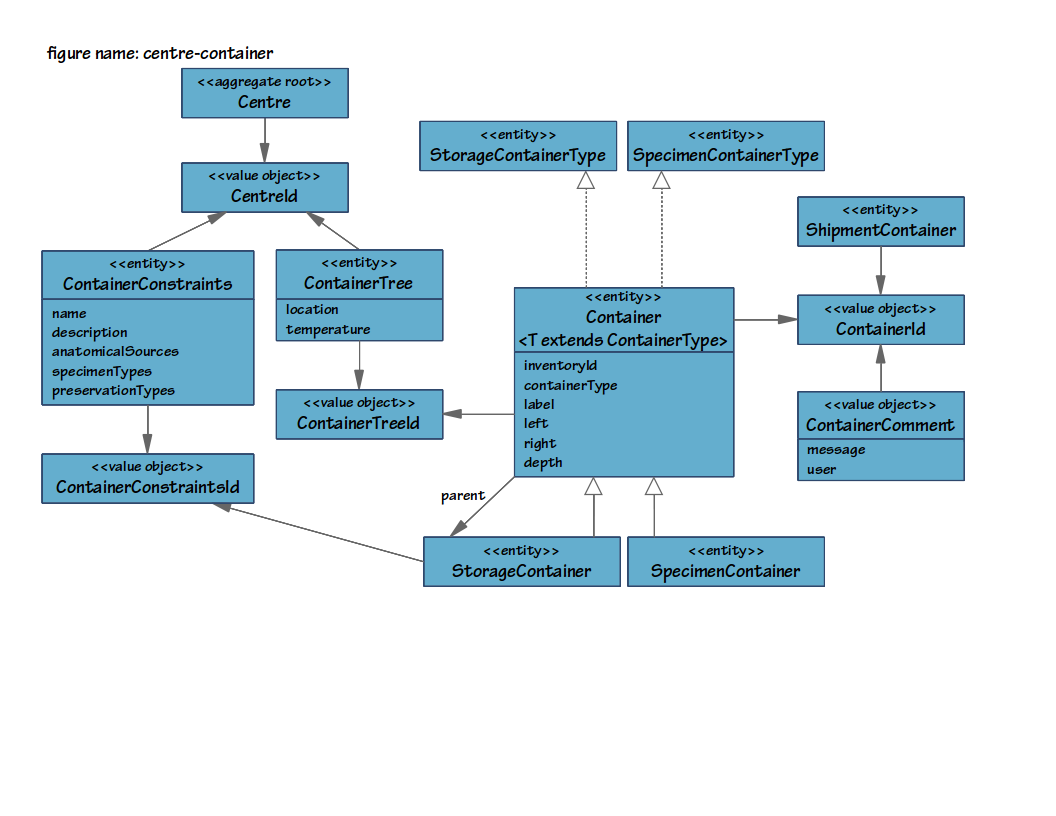
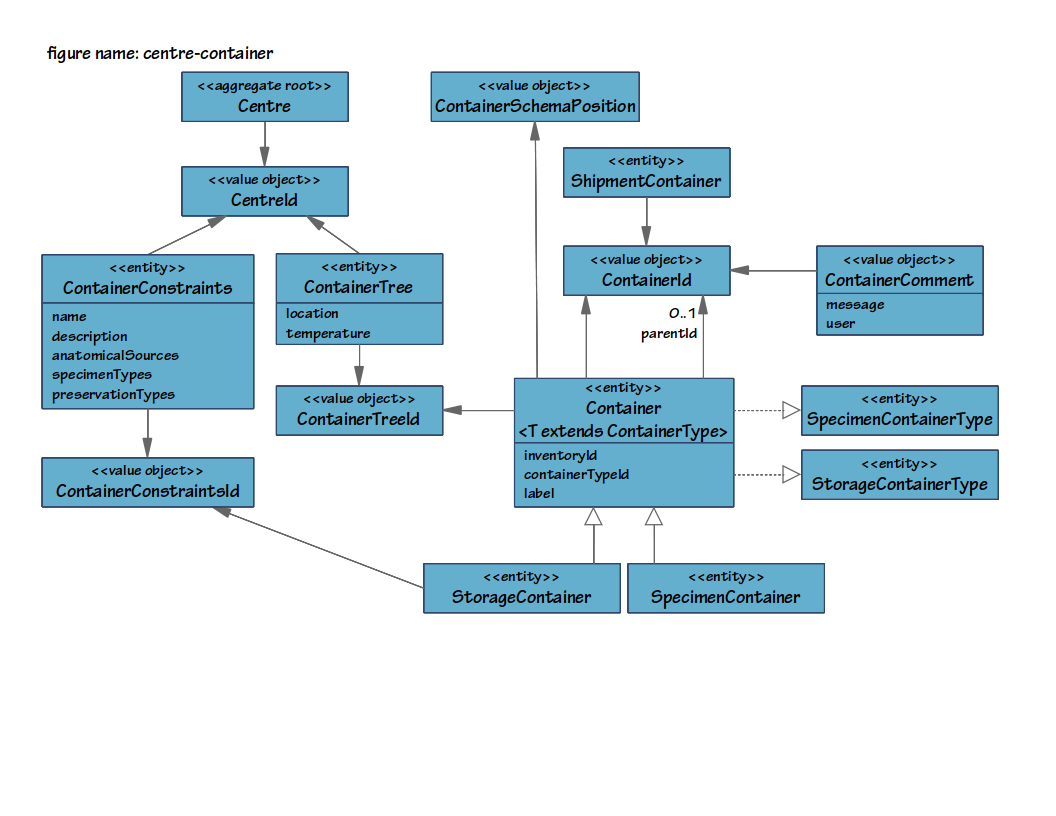
working on centre-storage-management chapter

diff --git a/centre-storage-management.tex b/centre-storage-management.tex
@@ -1,21 +1,81 @@
 \chapter{Centre Storage Management}
 \label{chap:centre-storage-management}
+Storage containers share common attributes, these attributes are grouped into
+and defined in a \entitytarget{ContainerType}. Some storage containers hold
+sub-containers, while others hold specimens.
+
+A \entitylink{ContainerType} has the following attributes: a short name used
+for quick identification; an optional drescription that gives more details for
+the name; the \compfont{shared} flag used to share this container type with
+other centres when assigned a \compfont{true} value; the \compfont{enabled}
+flag used to allow containers of this type to be created when assigned a
+\compfont{true} value.
+
+A \entitytarget{StorageContainerType} is used to define the attributes for
+containers that hold sub-containers. E.g. a freezer of certain dimensions holds
+a number of racks, where each rack may hold many microwell plates. Figure
+\ref{fig:centre-container-type} shows that a \entitylink{StorageContainerType}
+is derived from \entitylink{ContainerType} and points to one or more child
+container types. A storage container also has the attribute named
+\compfont{topLevel} which is used to identify containers types that represent
+the top of the hierarchy (e.g. a freezer).
+
+A \entitytarget{SpecimenContainerType} is used to define the attribues for
+containers that only hold specimens. E.g. a 96 well microwell plate is a type
+of specimen container that holds 96 tubes where each tube contains a specimen.
+\entitylink{StorageContainerType} is also a subclass of
+\entitylink{ContainerType}.
 
 \begin{figure}[H]
   \centering
-  \includegraphics[trim={10mm 75mm 92mm 18mm}, clip,
-    width=0.7\textwidth]{images/centre-container-type}
+  \includegraphics[trim={10mm 73mm 92mm 18mm}, clip,
+    width=0.75\textwidth]{images/centre-container-type}
   \caption{Container Type model}
   \label{fig:centre-container-type}
 \end{figure}
 
+Each container type has a \entitytarget{ContainerSchema} that defines how the
+sub-containers are \emph{labeled}. A label is a physical label that is stuck
+onto a sub-container and is used to quickly identify it\footnote{This label
+  identifies the position within the parent and does not include the parent's
+  label. It is different than the label used by a container which includes the
+  parent's label as a prefix.}. A container schema has multiple
+\entitytarget{ContainerSchemaPosition}s which define the valid labels for the
+container type (see Appendix \ref{appx:container-labeling} for more information
+on how containers can be labelled). A single container schema may be used by
+one more container types. Each container schema has a name for quick
+identification and a description. The \compfont{shared} flag is used to share
+the schema across different centres.
+
+Figure \ref{fig:centre-container} shows the model used for containers. It is
+described below.
+
 \begin{figure}[H]
   \centering
-  \includegraphics[trim={10mm 60mm 22mm 18mm}, clip,
+  \includegraphics[trim={10mm 52mm 14mm 18mm}, clip,
     width=1\textwidth]{images/centre-container}
   \caption{Container model}
   \label{fig:centre-container}
 \end{figure}
+
+\subsection*{Container}
+A \entitytarget{Container} is used to model physical containers used for
+storage. The \entitylink{Container} class is a generic class with a type that
+is either a \entitylink{StorageContainerType} or
+\entitylink{SpecimenContainerType}. Two derived classes are available: either
+\entitytarget{StorageContainer} or \entitytarget{SpecimenContainer}.
+
+A \entitylink{Container} has the following attributes: an
+\compfont{inventoryId} that is a unique identifier; the ID of it's container
+type; the ID of it's parent container; the label which has the parent's label
+as a prefix; the label within it's \entitylink{ContainerSchemaPosition}; and
+the ID of the \entitylink{ContainerTree} it belongs to.
+
+\subsection*{StorageContainer}
+A \entitylink{StorageContainer} is a subclass of \entitylink{Container} and is
+used to represent a physical container. A storage container may have an
+optional \entitylink{ContainerConstraints}.
+
 
 % Local Variables:
 % compile-command: "/usr/bin/rubber --pdf main"

diff --git a/centre-shipment.tex b/centre-shipment.tex
@@ -87,6 +87,17 @@ Contain a textual message and the user that added the comment. The date and
 time the comment is made is recorded as meta data. A shipment can have one or
 more comments.
 
+\section{Shipment Invariants}
+The following must hold for a shipment:
+\begin{itemize}
+\item If a container has a \entitylink{ShipmentContainer} that is already part
+  of a shipment and it is not in \compfont{RECEIVED} state, then it cannot be
+  added to a shipment.
+\item If a specimen has a \entitylink{ShipmentSpecimen} that is already part of
+  a a shipment and it is not in \compfont{RECEIVED} state then it cannot be
+  added to a shipment.
+\end{itemize}
+
 % Local Variables:
 % compile-command: "/usr/bin/rubber --pdf main"
 % End:

diff --git a/introduction.tex b/introduction.tex
@@ -1,9 +1,9 @@
 \chapter{Introduction}
 
 Biobank version 4 is a rewrite of the Biobank application and meant to provide
-the majority of its functionality through a web browser based interface. It was
-designed using Domain Driven Design principles \cite{evans2004domain} and
-employs a CQRS architecture (Command Query Responsibility Segregation)
+the majority of its functionality through a web browser based interface. It
+uses Domain Driven Design principles \cite{evans2004domain} and employs a CQRS
+architecture (Command Query Responsibility Segregation)
 \cite{vernon2013implementing}.
 
 In addition, version 4 includes enhancements to the domain model which provides

diff --git a/specimen-collection.tex b/specimen-collection.tex
@@ -103,6 +103,12 @@ location for the specimen which may be different than the origin location; if
 this specimen is stored then its location is recorded in the
 \compfont{container} and \compfont{position} fields.
 
+\section{Specimen Collection Invariants}
+Before a specimen can be collected, the following must apply: the study must be
+enabled; the participant must first be present in the system; the study must
+have been configured with collection event types; the specimen groups must be
+defined.
+
 % Local Variables:
 % compile-command: "/usr/bin/rubber --pdf main"
 % End:

diff --git a/main.tex b/main.tex
@@ -255,10 +255,14 @@
 \include{specimen-request}
 \include{study-annotations}
 
+\appendix
+\include{container-labeling}
+
 %----------------------------------------------------------------------------------------
 % Bibliography
 %----------------------------------------------------------------------------------------
 
+\backmatter
 \chapter*{Bibliography}
 \addcontentsline{toc}{chapter}{Bibliography}
 \printbibliography[heading=bibempty]

diff --git a/study-management.tex b/study-management.tex
@@ -244,6 +244,9 @@ To avoid redundancy, each combination of \compfont{inputGroup} and
 A \valobjtarget{SpecimenLinkTypeAnnotationType} is used to tie a specimen
 link annotation type to a specimen link type.
 
+\section{Study Invariants}
+A configuration change to a study is only allowed if it is not enabled.
+
 \section {Study Aggregate Commands}
 \subsection{Study Commands}
 The commands handled by the study aggregate are listed below.

diff --git a/container-labeling.tex b/container-labeling.tex
@@ -1,0 +1,4 @@
+\chapter{Container Labeling}
+\label{appx:container-labeling}
+
+To be completed.
